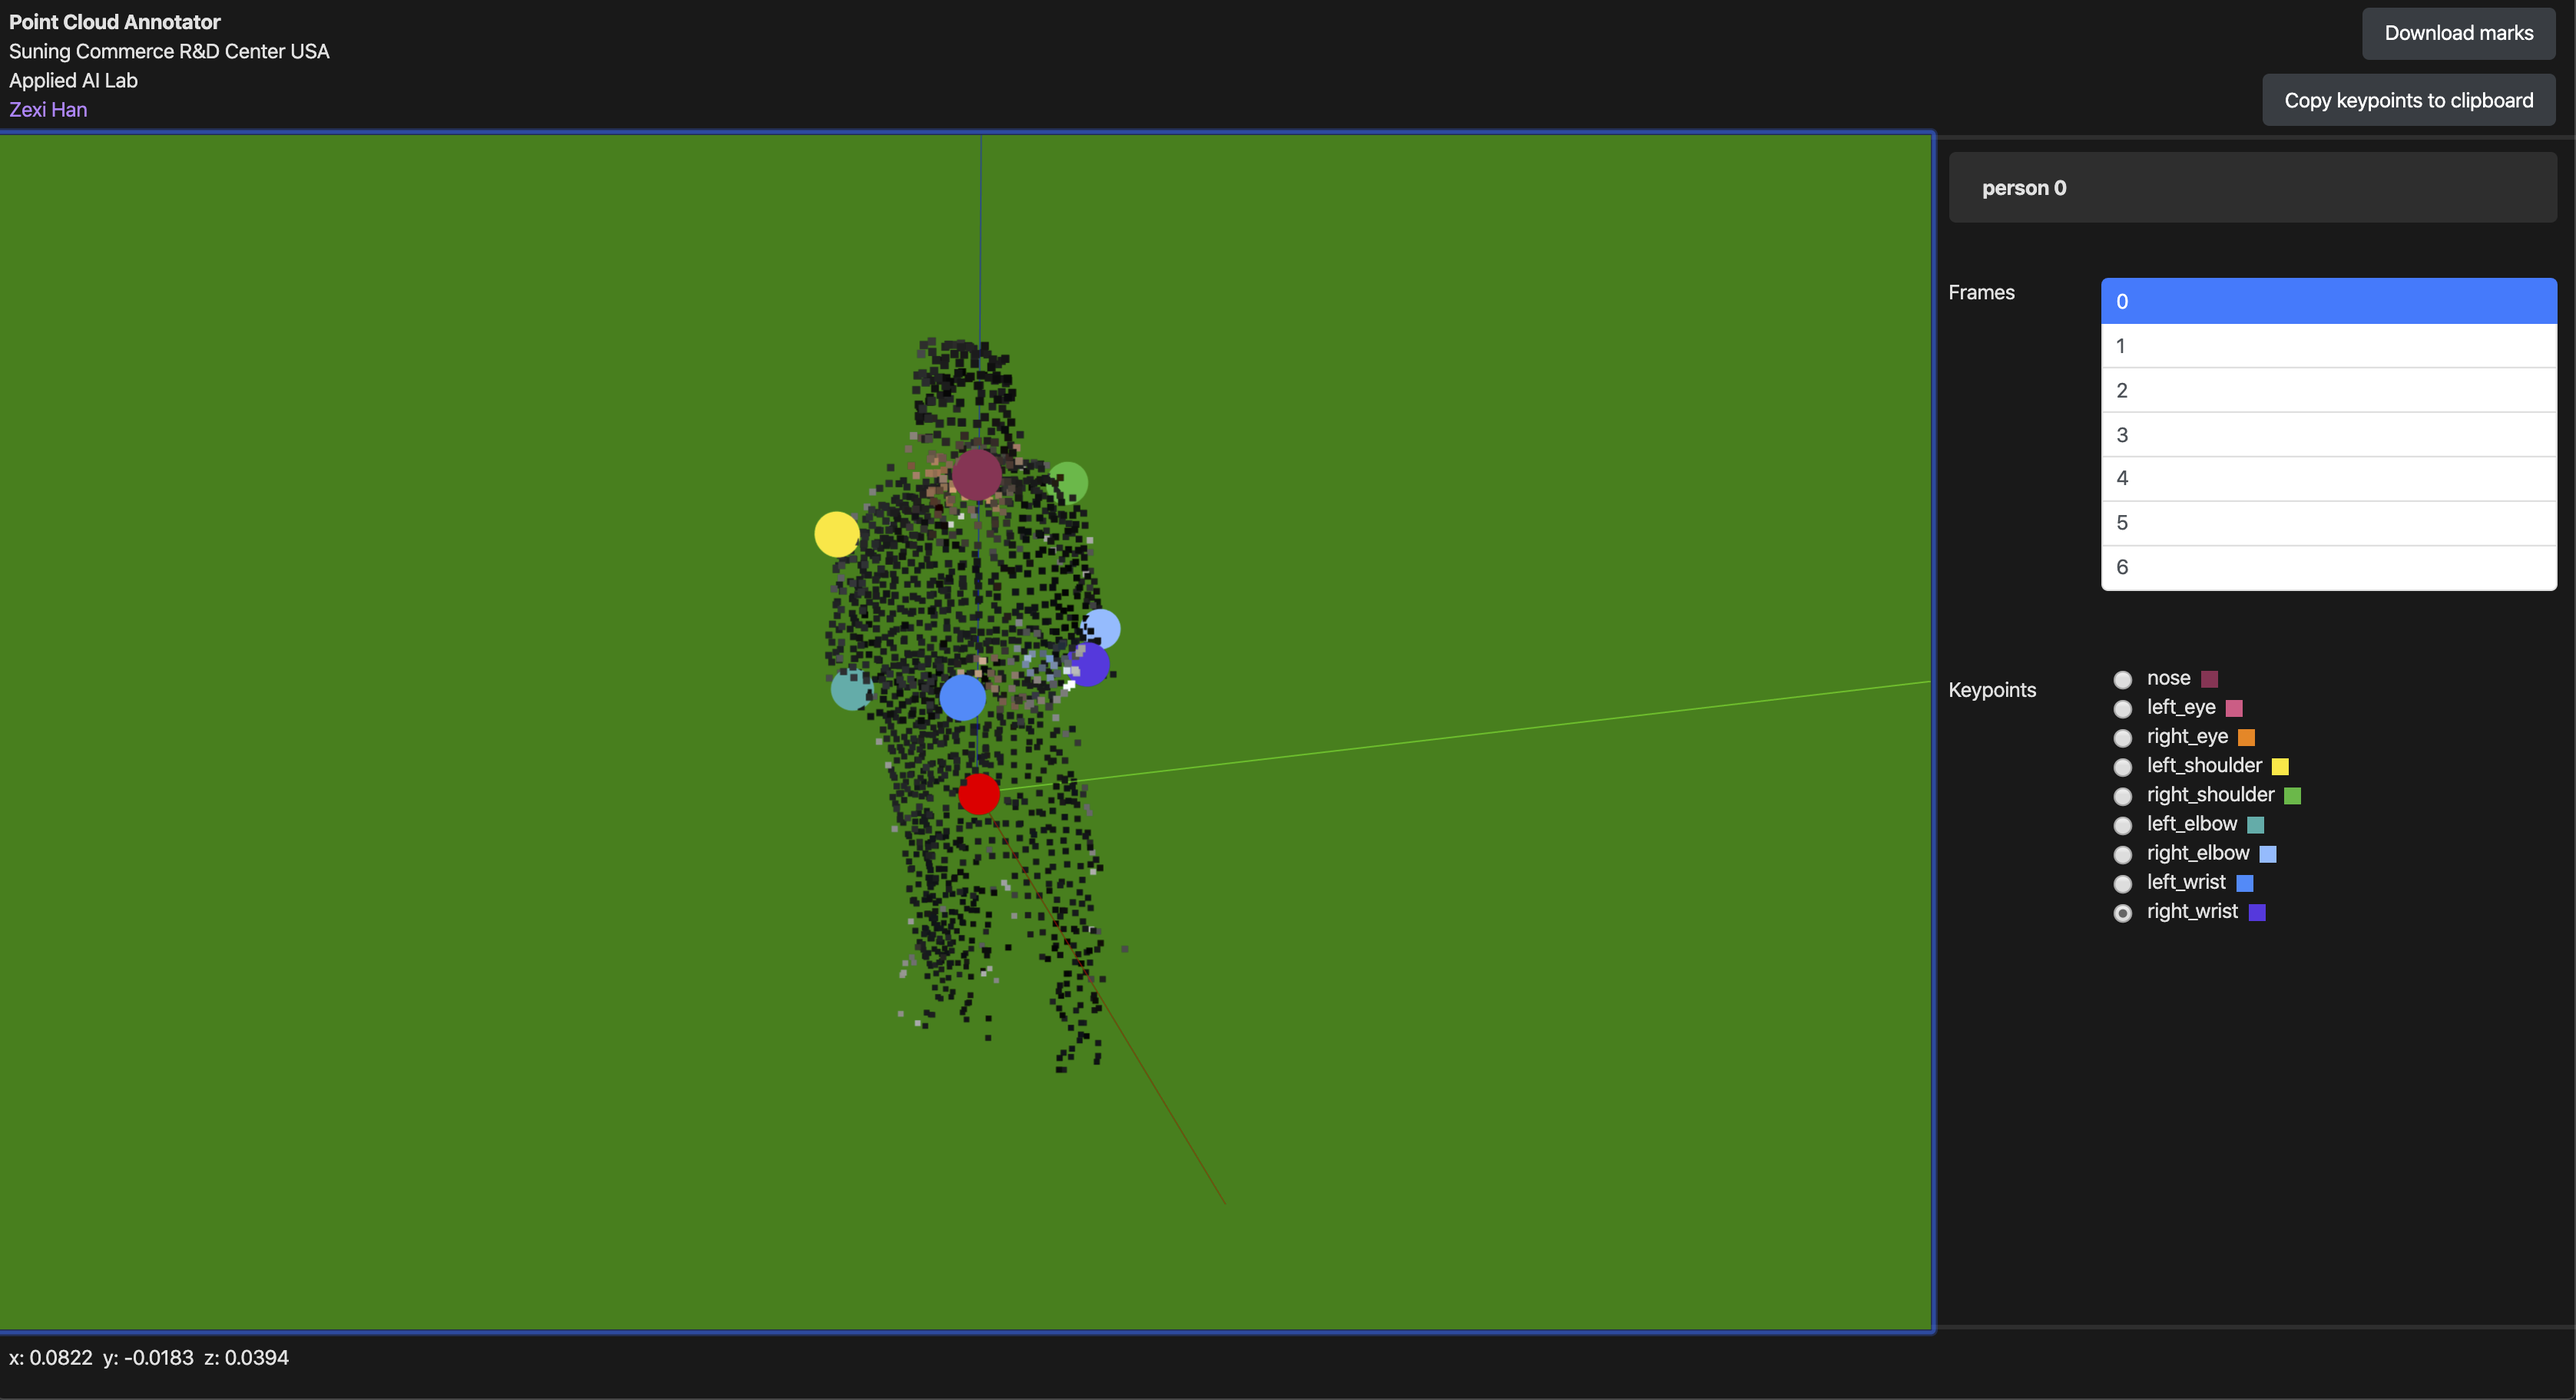
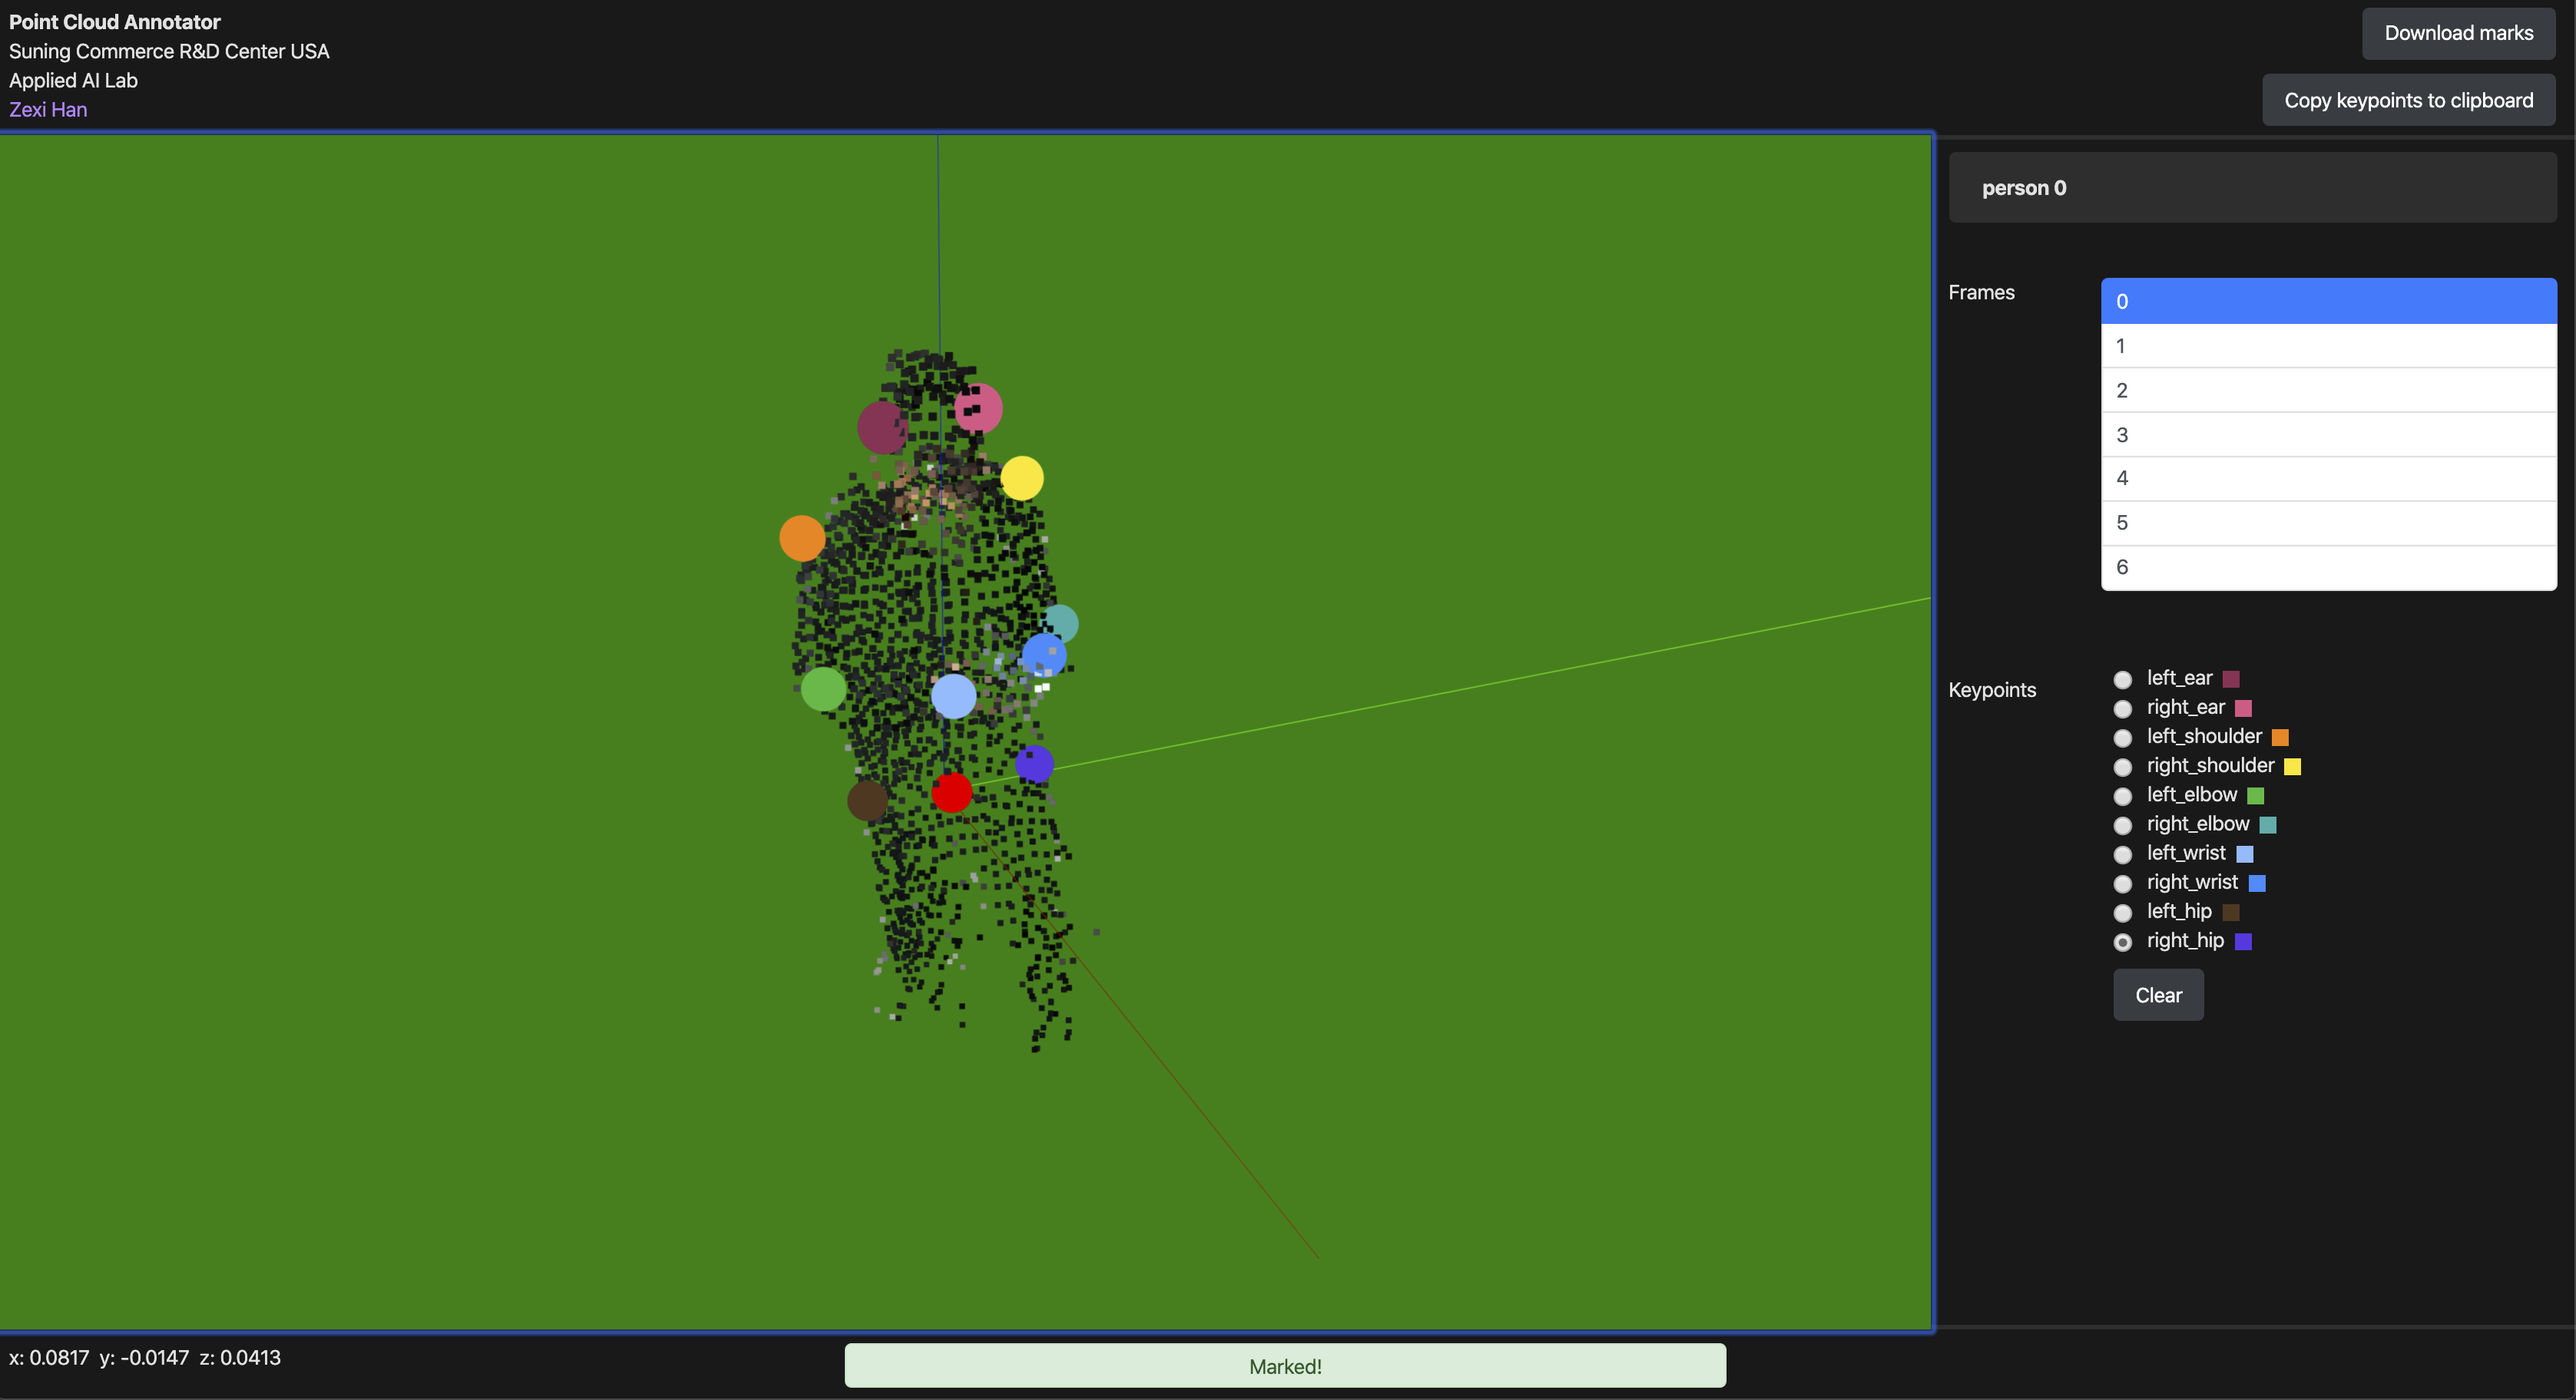
update README

diff --git a/README.md b/README.md
@@ -26,25 +26,39 @@ npm install
 npm start
 ```
 
-Runs the app in the development mode.<br>
 Open [http://localhost:3000](http://localhost:3000) to view it in the browser.
 
 The page will reload if you make edits.<br>
 You will also see any lint errors in the console.
 
+#### (Optional) Edit the configs.json.
+
+By default, point clouds are served from a subfolder in <code>public/data/pcd</code>. Sample person point clouds are included in <code>public/data/pcd/person</code>.
+
+```
+{
+    "set_nm": "person",
+    "begin_fid": 0,
+    "end_fid": 6,
+    "pcd_folder": "./data/pcd",
+    "bbox_folder": "./data/bbox",
+    "keypoints_folder": "./data/keypoints",
+    "keypoints": [
+        {"label": "left_ear", "color": "#9A3254"},
+        {"label": "right_ear", "color": "#E85D88"},
+        {"label": "left_shoulder", "color": "#FF8815"},
+        {"label": "right_shoulder", "color": "#FFE832"},
+        {"label": "left_elbow", "color": "#1FB93E"},
+        {"label": "right_elbow", "color": "#1AAEAA"},
+        {"label": "left_wrist", "color": "#83BCFF"},
+        {"label": "right_wrist", "color": "#208BFB"},
+        {"label": "left_hip", "color": "#54351A"},
+        {"label": "right_hip", "color": "#5D36E1"}
+    ]
+}
+```
+
 ## How to use
-
-### Prepare data
-
-```
-point-cloud-annotator
-├── public
-│   ├── data
-│   │   ├── bbox
-│   │   ├── keypoints
-│   │   ├── mark
-│   │   ├── pcd
-```
 
 ### Control
 
